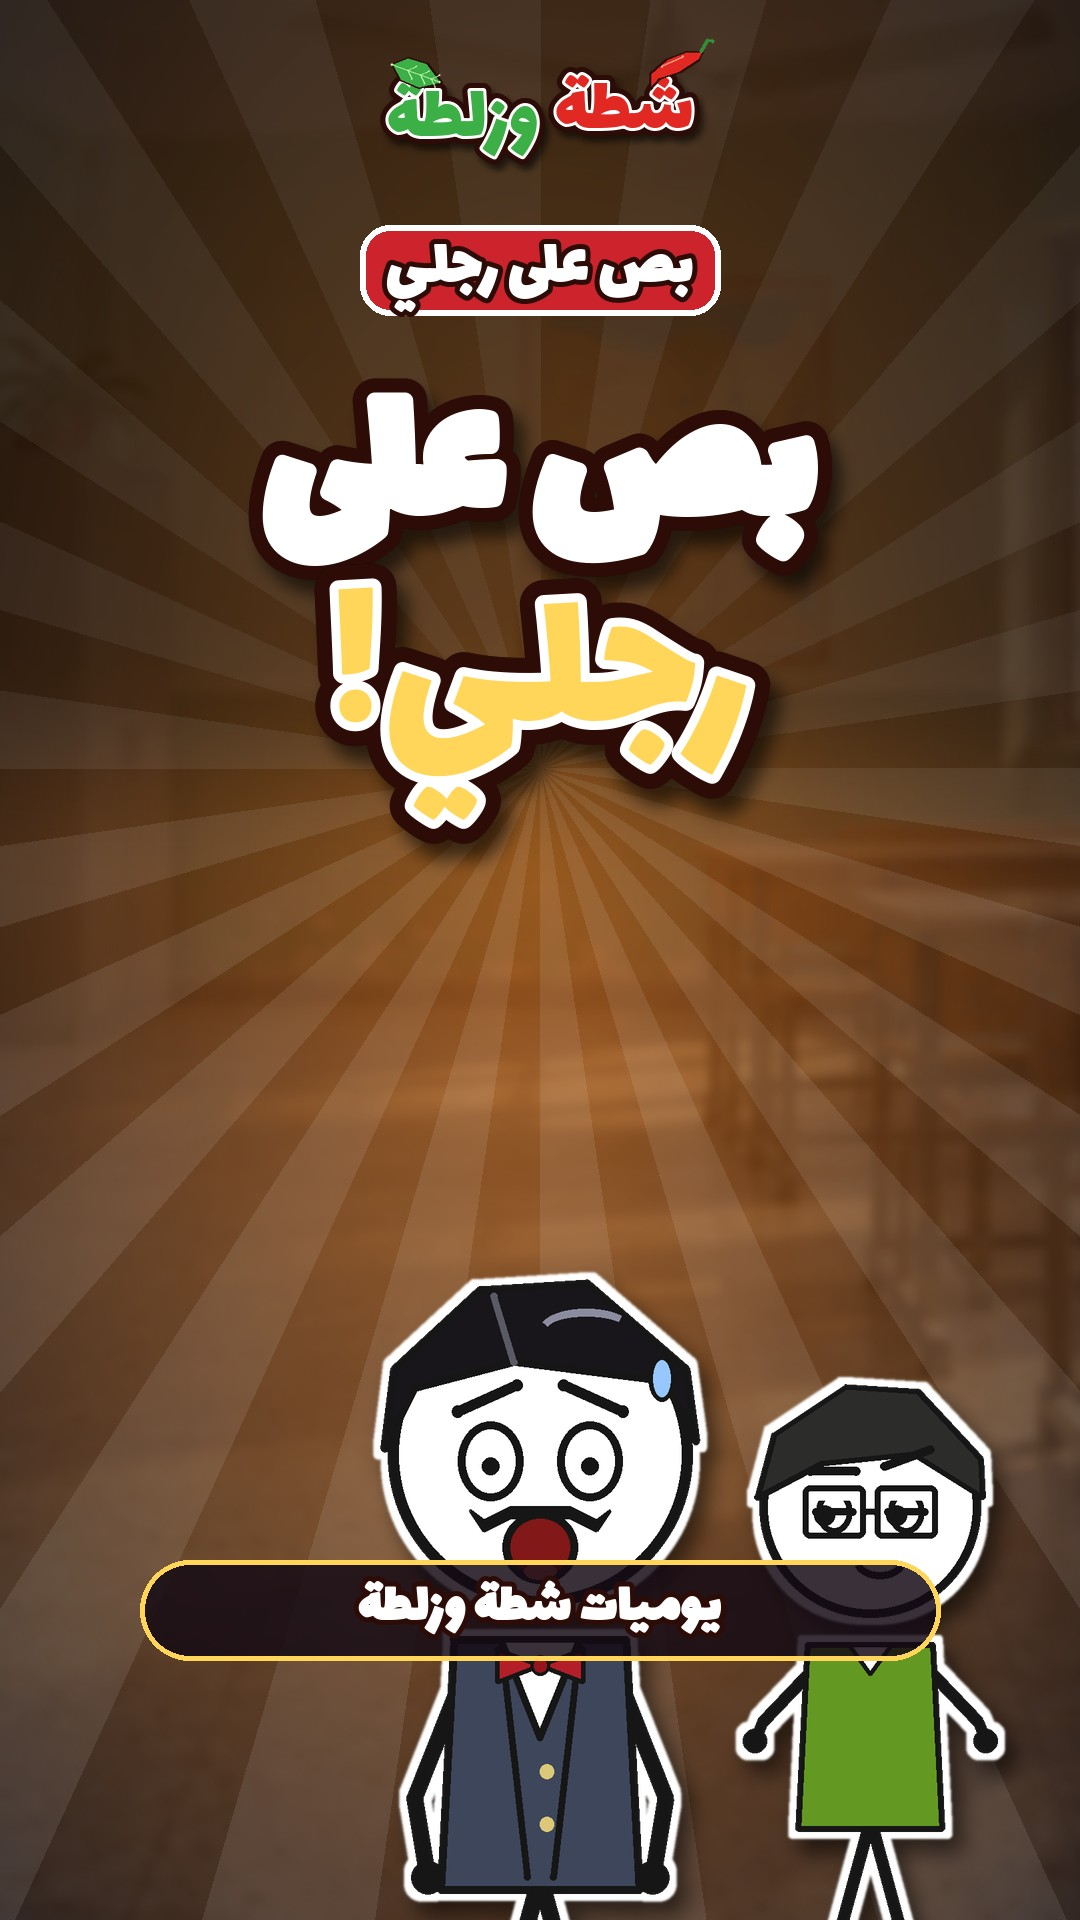
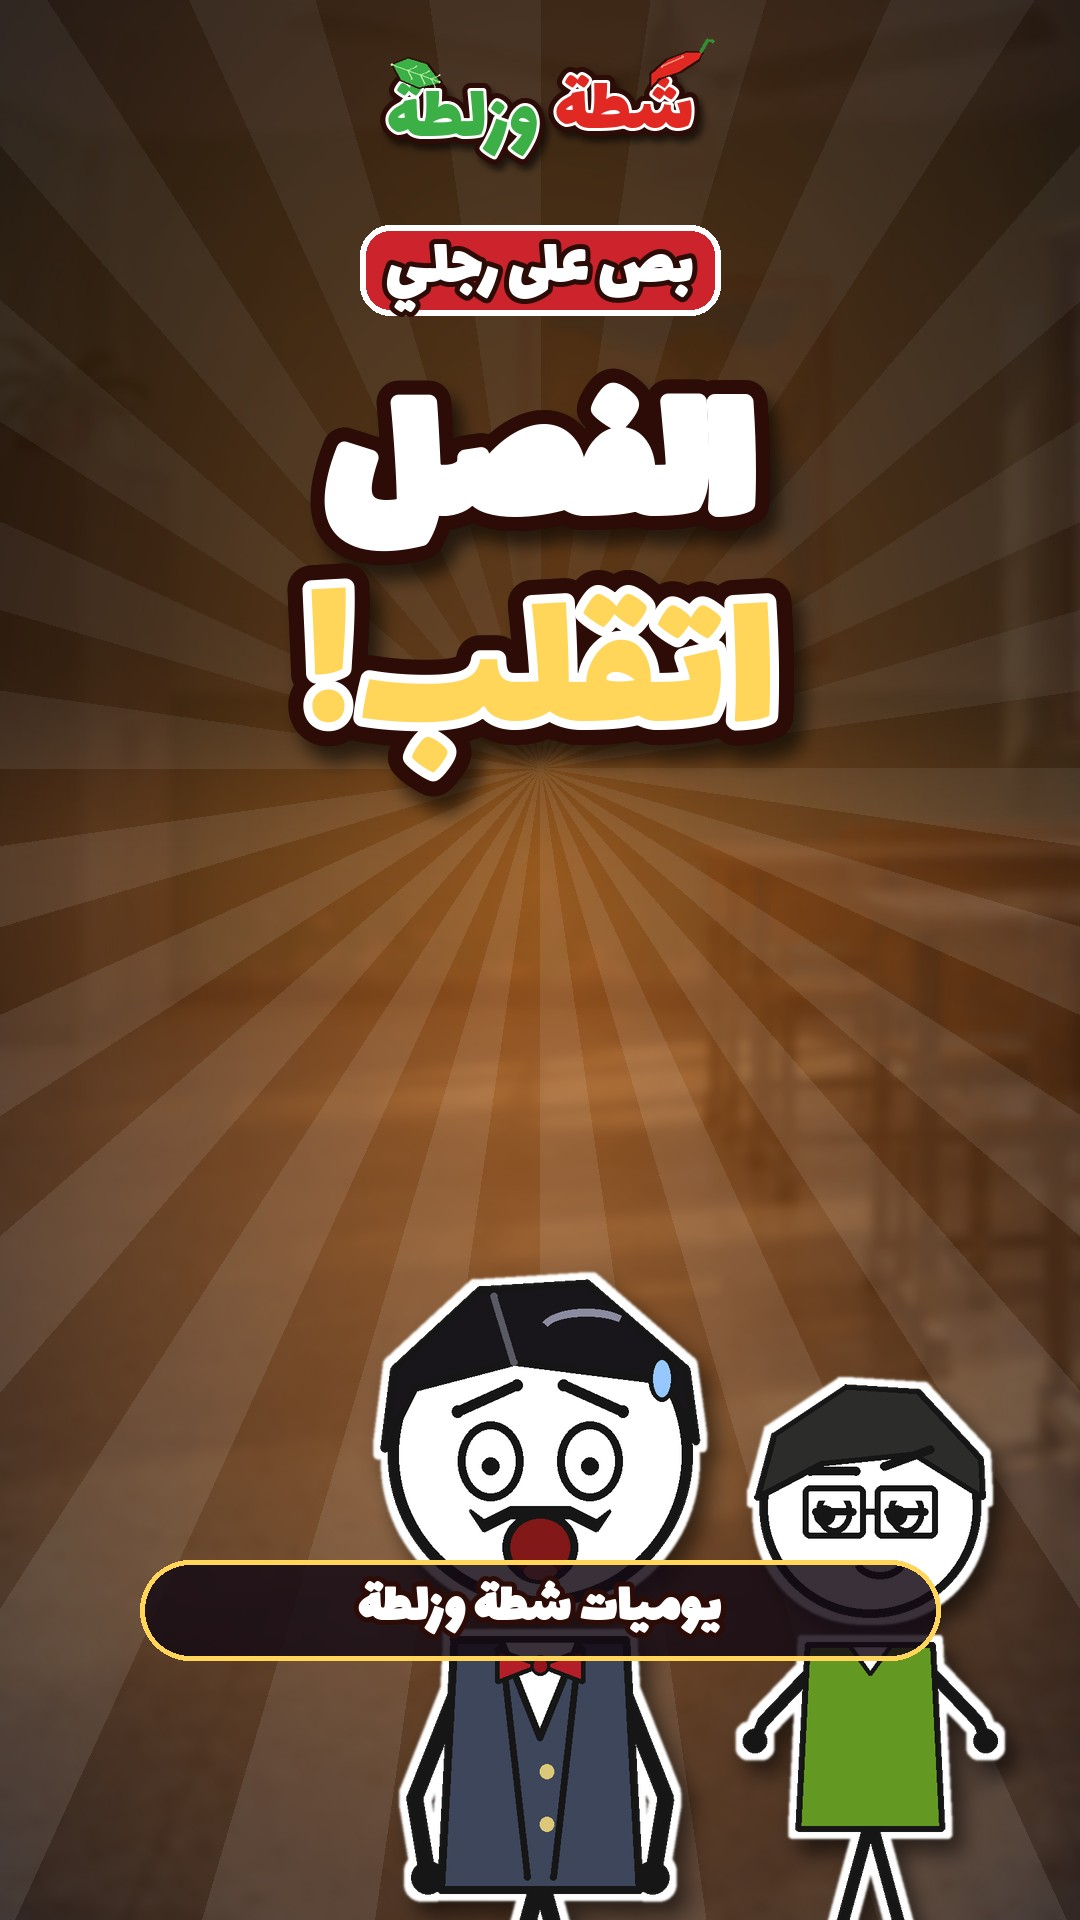
daily_e02 thumbnail headline
Claude-Session: https://claude.ai/code/session_01QBkgXqDRYZm5xFdcbBft5r

Changed region(s): [[0.2139, 0.1875, 0.7944, 0.4688]]

diff --git a/publish/build.py b/publish/build.py
@@ -204,7 +204,7 @@ ITEMS = [
  dict(id="daily_e02", series="daily", kind="episode", ep=2, name="بص على رجلي", date="2026-11-27", time="15:00",
       src_h="يوميات شطة وزلطة - بص على رجلي.mp4", src_v="يوميات شطة وزلطة - بص على رجلي (تيك توك).mp4",
       yt_title="الأستاذ سأله عن الحيوان من رجليه… فرد عليه رد قلب الفصل! 😂", hook="أستاذ فهمي رسم رجلين حيوان على السبورة وسأل زلطة: ده إيه؟… والإجابة خلت الفصل كله يموت من الضحك 😂",
-      question="💬 إنتوا كنتوا هتقولوا الحيوان ده إيه؟ 😂 👇", headline=["بص على", "رجلي!"], bg=f"{REPO}/daily/bg/classroom.png",
+      question="💬 إنتوا كنتوا هتقولوا الحيوان ده إيه؟ 😂 👇", headline=["الفصل", "اتقلب! 😂"[:-2]], bg=f"{REPO}/daily/bg/classroom.png",
       figs=[("fahmy", 3.6, "shock", 0.6, 1, "down", None, None, None, 1260), ("zalata", 3.0, "smug", 0.0, -1, "hips", None, None, None, 1720)]),
  dict(id="nanaa_s2_movie", series="nanaa_s2", kind="movie", ep=None, name="الموسم التاني كامل", date="2026-12-05", time="18:00",
       src_h="عمارة نعناعة م2 - سر البدروم (الفيلم كامل).mp4", src_v=None, chapters=f"{REPO}/movie/s2/chapters.txt",
